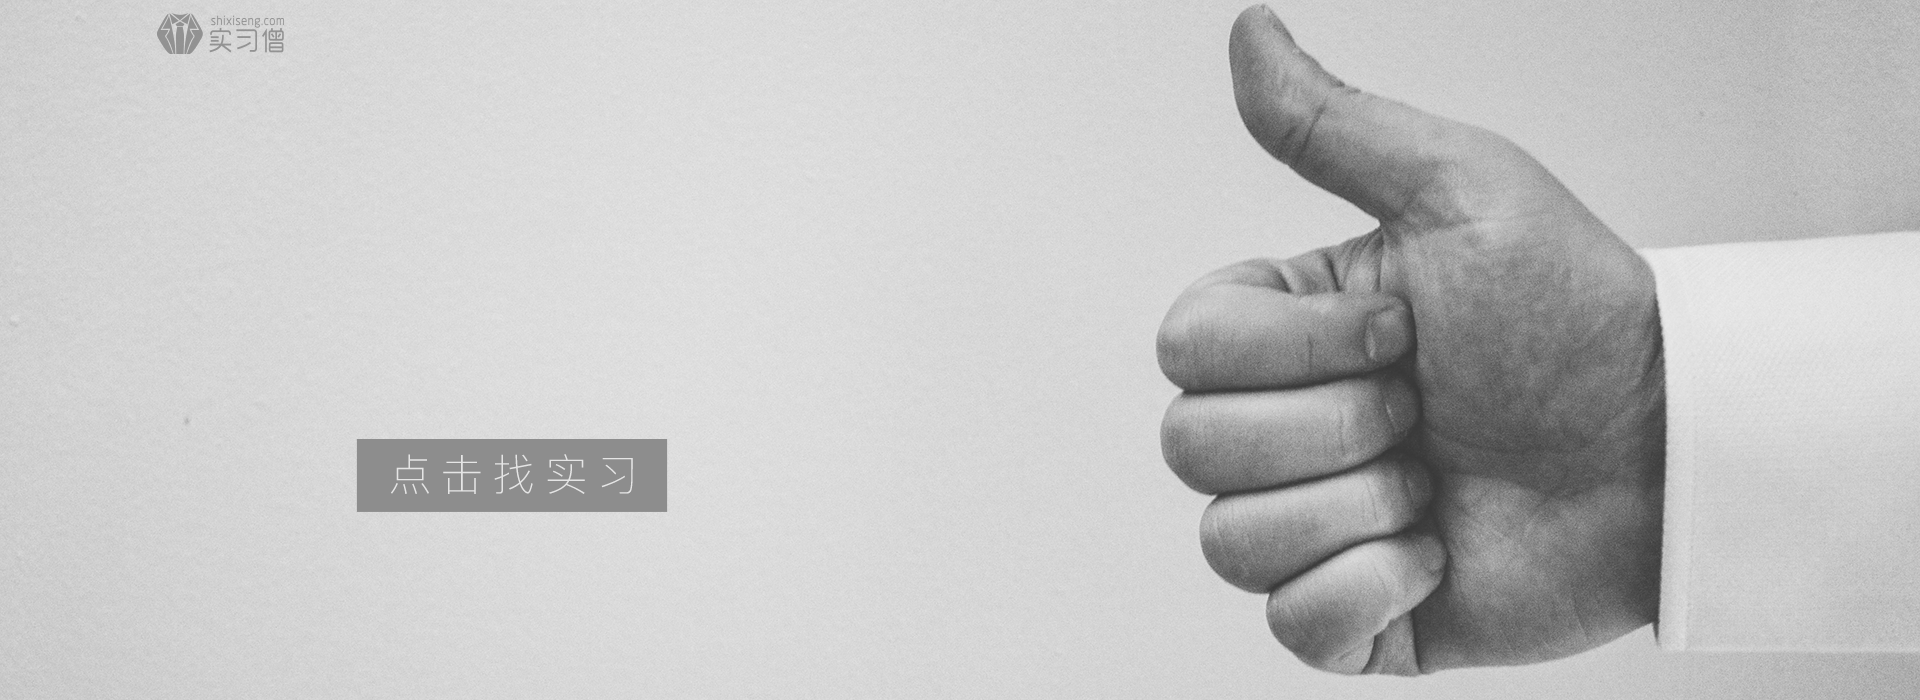
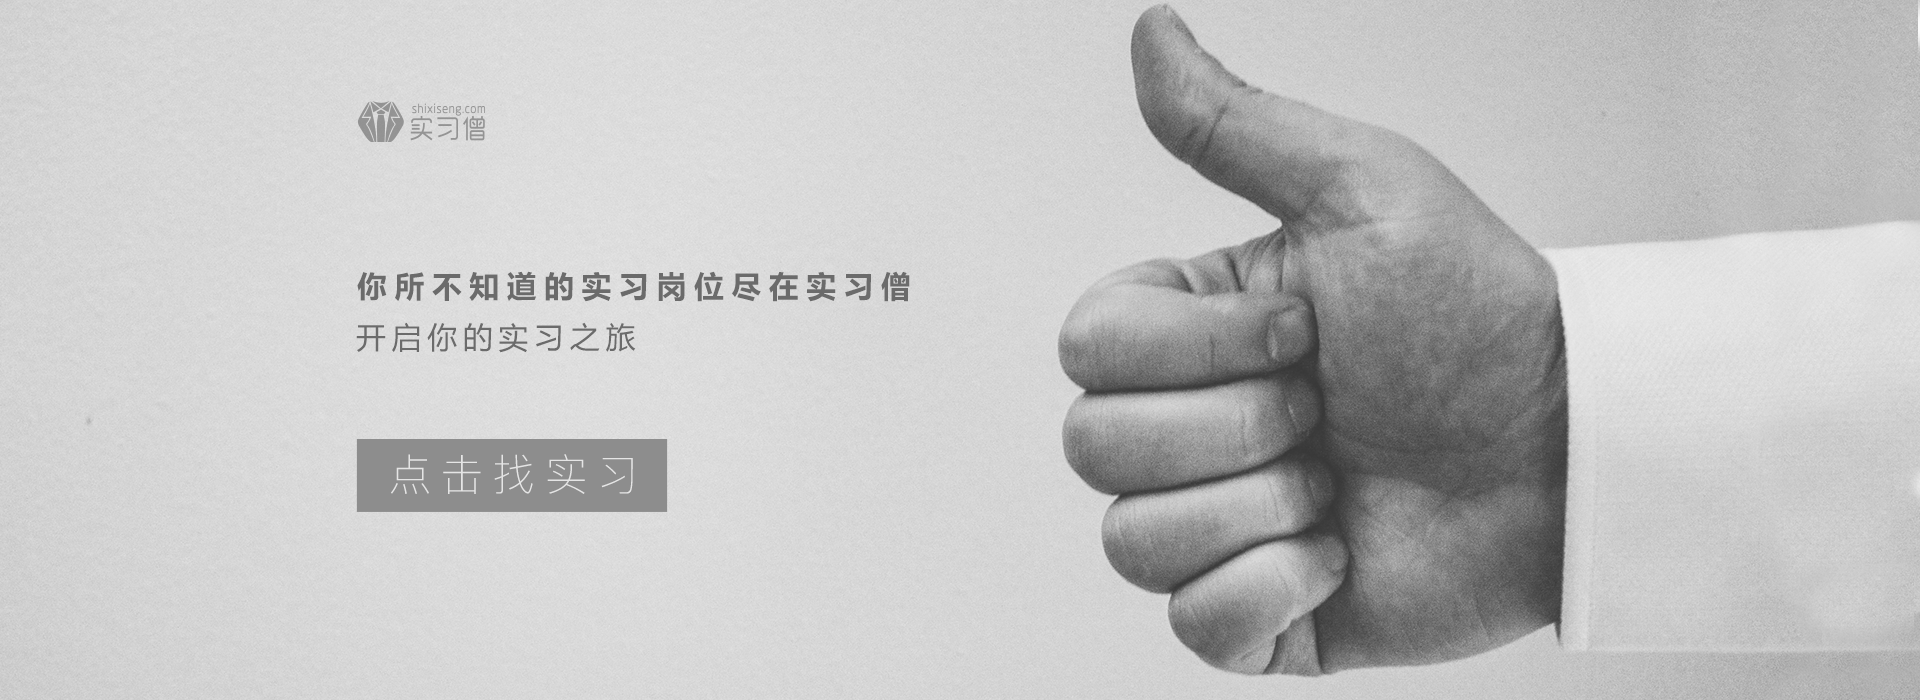
Replace shi xi seng background.

diff --git a/client/www/index.html b/client/www/index.html
@@ -67,19 +67,6 @@
             </div>
             <a class="b-slider-item fourth-item" href="http://www.shixiseng.com/invite/Qmi6" target="_blank"
                style="display: block; text-decoration: none; background-image: url('<%= cdn.normal %>img/partners/shixiseng_bg.png?<%= cdn.version %>');">
-                <div class="ui container">
-                    <h1 class="ui grey header"
-                        style="color: #6B6B6B!important;font-weight: bold; letter-spacing: 0.2em;"><%=
-                        __('你所不知道的实习岗位尽在实习僧') %></h1>
-
-                    <h2 class="ui grey header"
-                        style="font-size: 200%; letter-spacing: 0.2em; color: #6B6B6B!important; margin-top: -0.5em;">
-                        <%=
-                        __('开启你的实习之旅') %></h2>
-
-                    <div class="ui horizontal divider"></div>
-                    <!--<a class="ui large grey button" target="_blank" style="border-radius: 0;"><%= __('点击找实习') %></a>-->
-                </div>
             </a>
         </div>
     </div>

diff --git a/client/www/test/controllers/PersonalHistoryCtrl.tests.js b/client/www/test/controllers/PersonalHistoryCtrl.tests.js
@@ -6,15 +6,15 @@ describe('PersonalHistoryCtrl', function () {
 
     beforeEach(inject(function ($rootScope, $controller) {
         scope = $rootScope.$new();
-        //$controller('PersonalHistoryCtrl', {$scope: scope});
+        $controller('PersonalHistoryCtrl', {$scope: scope});
     }));
 
     // tests start here
     it('should generate start year and end year for school information', function () {
-        //expect(scope.startYearList[0]).toEqual(2015);
-        //expect(scope.startYearList[scope.startYearList.length - 1]).toEqual(1865);
-        //
-        //expect(scope.endYearList[0]).toEqual(2023);
-        //expect(scope.endYearList[scope.endYearList.length - 1]).toEqual(1865);
+        expect(scope.startYearList[0]).toEqual(2015);
+        expect(scope.startYearList[scope.startYearList.length - 1]).toEqual(1865);
+
+        expect(scope.endYearList[0]).toEqual(2023);
+        expect(scope.endYearList[scope.endYearList.length - 1]).toEqual(1865);
     });
 });

diff --git a/client/www/test/my.conf.js b/client/www/test/my.conf.js
@@ -19,7 +19,6 @@ module.exports = function (config) {
             '../bower/semantic-ui/dist/semantic.js',
             '../bower/angular/angular.js',
             '../bower/angular-translate/angular-translate.js',
-            '../../../locales/*.js',
             '../js/config/*.js',
             '../js/utils/utils.js',
             '../js/utils/msgbus.js',
@@ -32,6 +31,7 @@ module.exports = function (config) {
             '../js/page/personal-history/PersonalHistoryCtrl.js',
             '../js/page/personal-history/main.js',
             '../bower/angular-mocks/angular-mocks.js',
+            '../../../locales/*.js',
             './**/*tests.js'
         ],
 

diff --git a/client/www/youth.html b/client/www/youth.html
@@ -625,6 +625,11 @@
                         </a>
                     </div>
                     <div class="three wide column logo">
+                        <a href="http://www.mcthk.com" target="_blank">
+                            <img class="ui small image" src="<%= cdn.normal %>img/partners/mct.png?<%= cdn.version %>">
+                        </a>
+                    </div>
+                    <div class="three wide column logo">
                         <a href="" target="_blank">
                             <img class="ui small image"
                                  src="<%= cdn.normal %>img/partners/zhangji.jpg?<%= cdn.version %>">

diff --git a/client/www/mobile/youth.html b/client/www/mobile/youth.html
@@ -411,6 +411,11 @@
                          src="<%= cdn.normal %>img/partners/ciweishixi.png?<%= cdn.version %>">
                 </a>
 
+                <a href="http://www.mcthk.com" target="_blank">
+                    <img class="ui small image" style="display: inline; width: 80px;"
+                         src="<%= cdn.normal %>img/partners/mct.png?<%= cdn.version %>">
+                </a>
+
                 <a href="" target="_blank">
                     <img class="ui small image" style="display: inline; width: 80px;"
                          src="<%= cdn.normal %>img/partners/zhangji.jpg?<%= cdn.version %>">

diff --git a/client/www/test/factories/queryParser.tests.js b/client/www/test/factories/queryParser.tests.js
@@ -1,12 +1,10 @@
 describe('Query parser', function () {
     var queryParser;
 
-    angular.bplus = {
-        config: {
-            featureSwitcher: {
-                enableWechat: true
-            }
-        }
+    angular.bplus = angular.bplus || {};
+    angular.bplus.config = angular.bplus.config || {};
+    angular.bplus.config.featureSwitcher = {
+        enableWechat: true
     };
 
     beforeEach(module('accountSetting'));

diff --git a/locales/localeHelper.js b/locales/localeHelper.js
@@ -144,9 +144,7 @@
     if (typeof module !== 'undefined' && module.exports) {
         module.exports = helper;
     } else if (typeof angular !== 'undefined') {
-        console.error('hello');
         angular.bplus = angular.bplus || {};
         angular.bplus.localeHelper = helper;
-        console.error(angular.bplus.localeHelper);
     }
 })();

diff --git a/client/www/test/controllers/WechatLoginCtrl.tests.js b/client/www/test/controllers/WechatLoginCtrl.tests.js
@@ -12,7 +12,5 @@ describe('Wechat Login Controller', function () {
     // tests start here
     it('should not invert cancel button theme by default', function () {
         expect(scope.invertCancelButtonTheme).toEqual(false);
-        console.error(angular.bplus.config);
-        console.error(angular.bplus.localeHelper);
     });
 });
